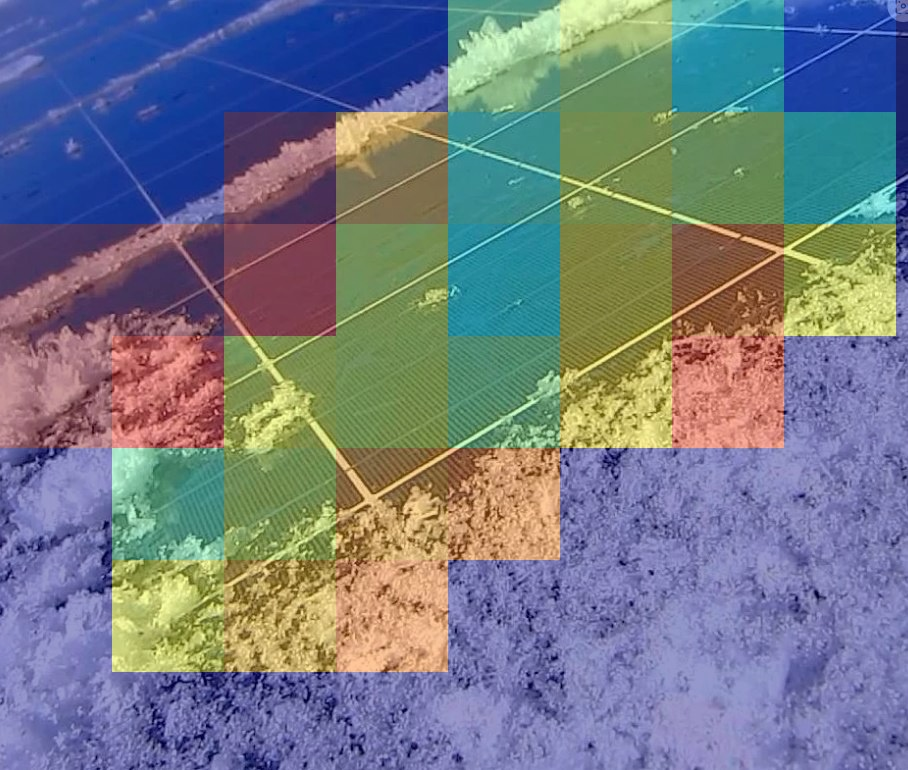
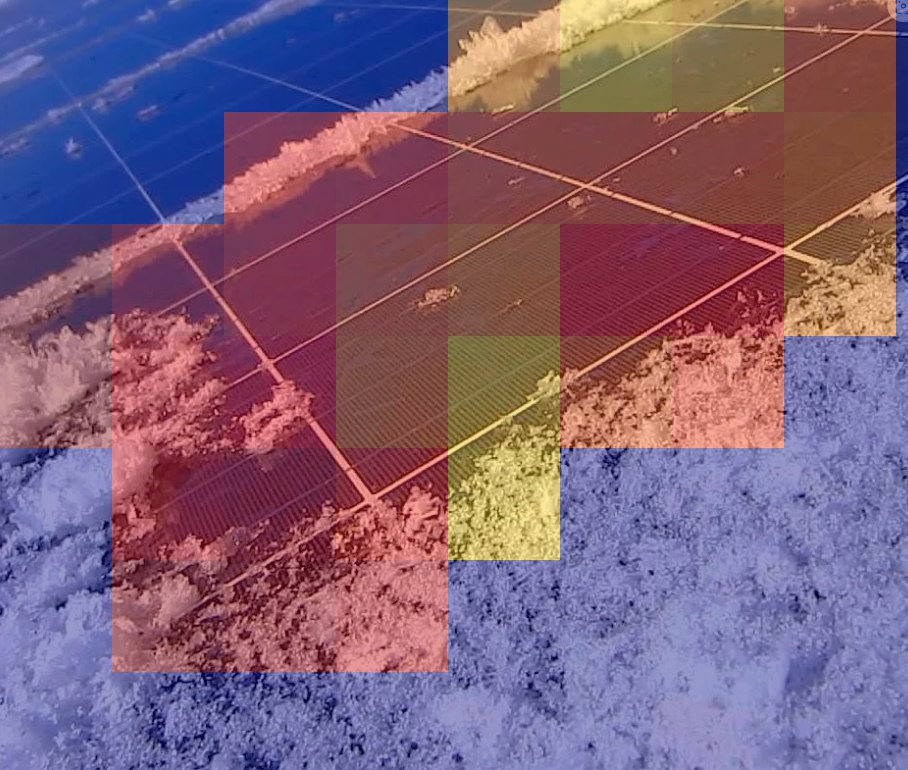
recalibration

diff --git a/Software/src/Training/PWS_SolarML_Detection/run_demo.py b/Software/src/Training/PWS_SolarML_Detection/run_demo.py
@@ -12,7 +12,7 @@ tf.get_logger().setLevel('ERROR')  # suppress TF warnings
 MLREF_DIR = os.path.abspath(
     os.path.join(BASE_DIR, "MLReferences")
 )
-img = os.path.join(MLREF_DIR, "Dirty", "Snow-Covered", "Snow (30).jpg") # frame path
+img = os.path.join(MLREF_DIR, "Dirty", "Snow-Covered", "Snow (40).jpg") # frame path
 score = get_dirt_score(img)
 print("Overall dirt score for image:", score)
 print("Category:", classify_dirt(score))
